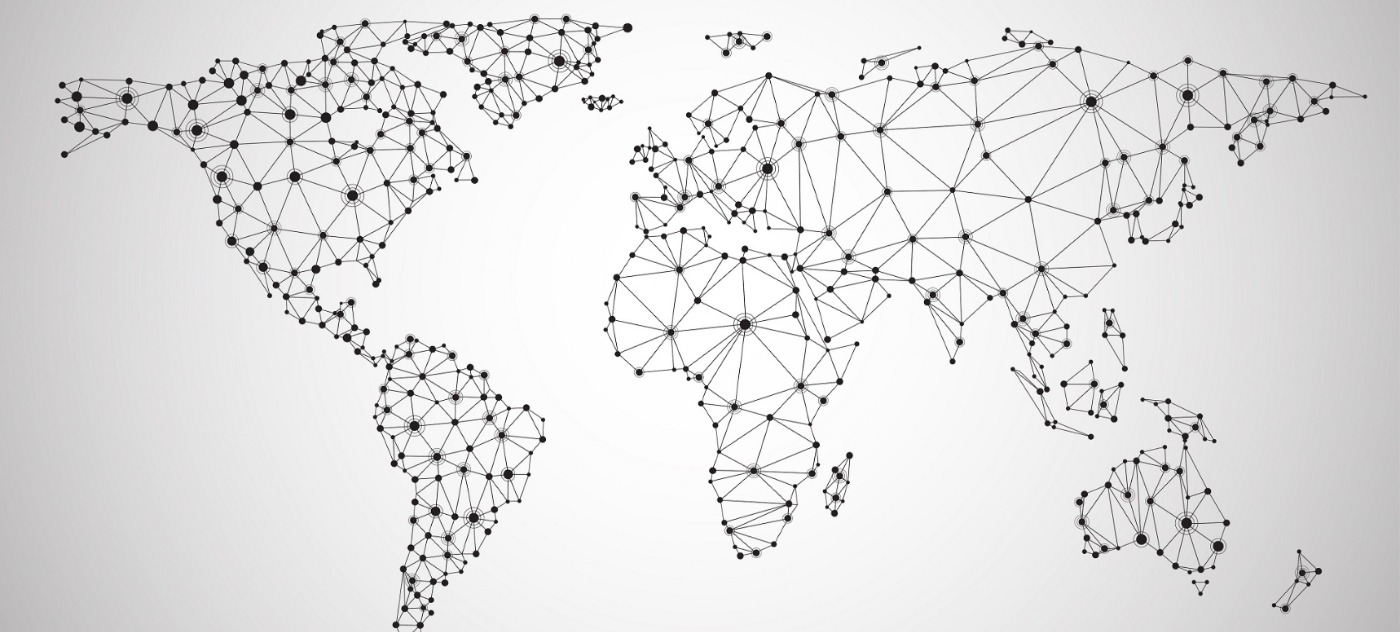
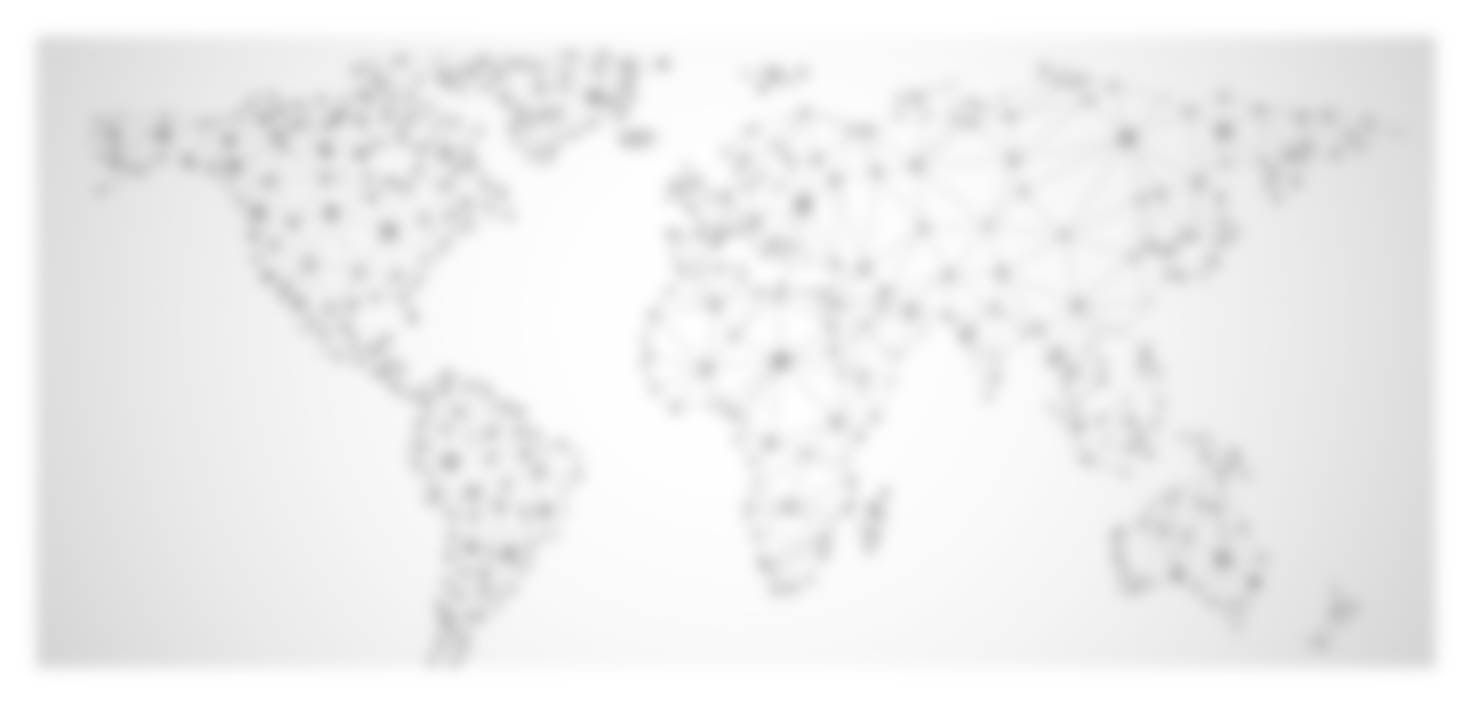
FimAtt

Changed region(s): [[0.43, 0.0, 1.0, 1.0], [0.0, 0.0, 0.4607, 1.0], [0.4914, 0.4509, 0.5221, 0.481]]

diff --git a/static/css/tooplate-style.css b/static/css/tooplate-style.css
@@ -132,11 +132,8 @@ p {
 	height: 515px;
 }
 
-#tm-section-5 { background-image: url('../../static/img/bg-img-2.jpg');   -webkit-filter: blur(15px);
-	-moz-filter: blur(15px);
-	-o-filter: blur(15px);
-	-ms-filter: blur(15px);
-	filter: blur(15px);}
+#tm-section-5 { background-image: url('../../static/img/bg-img-2.jpg');
+}
 
 #tm-section-6 {
 	background-image: url('../../static/imgbg-img-3.jpg');
